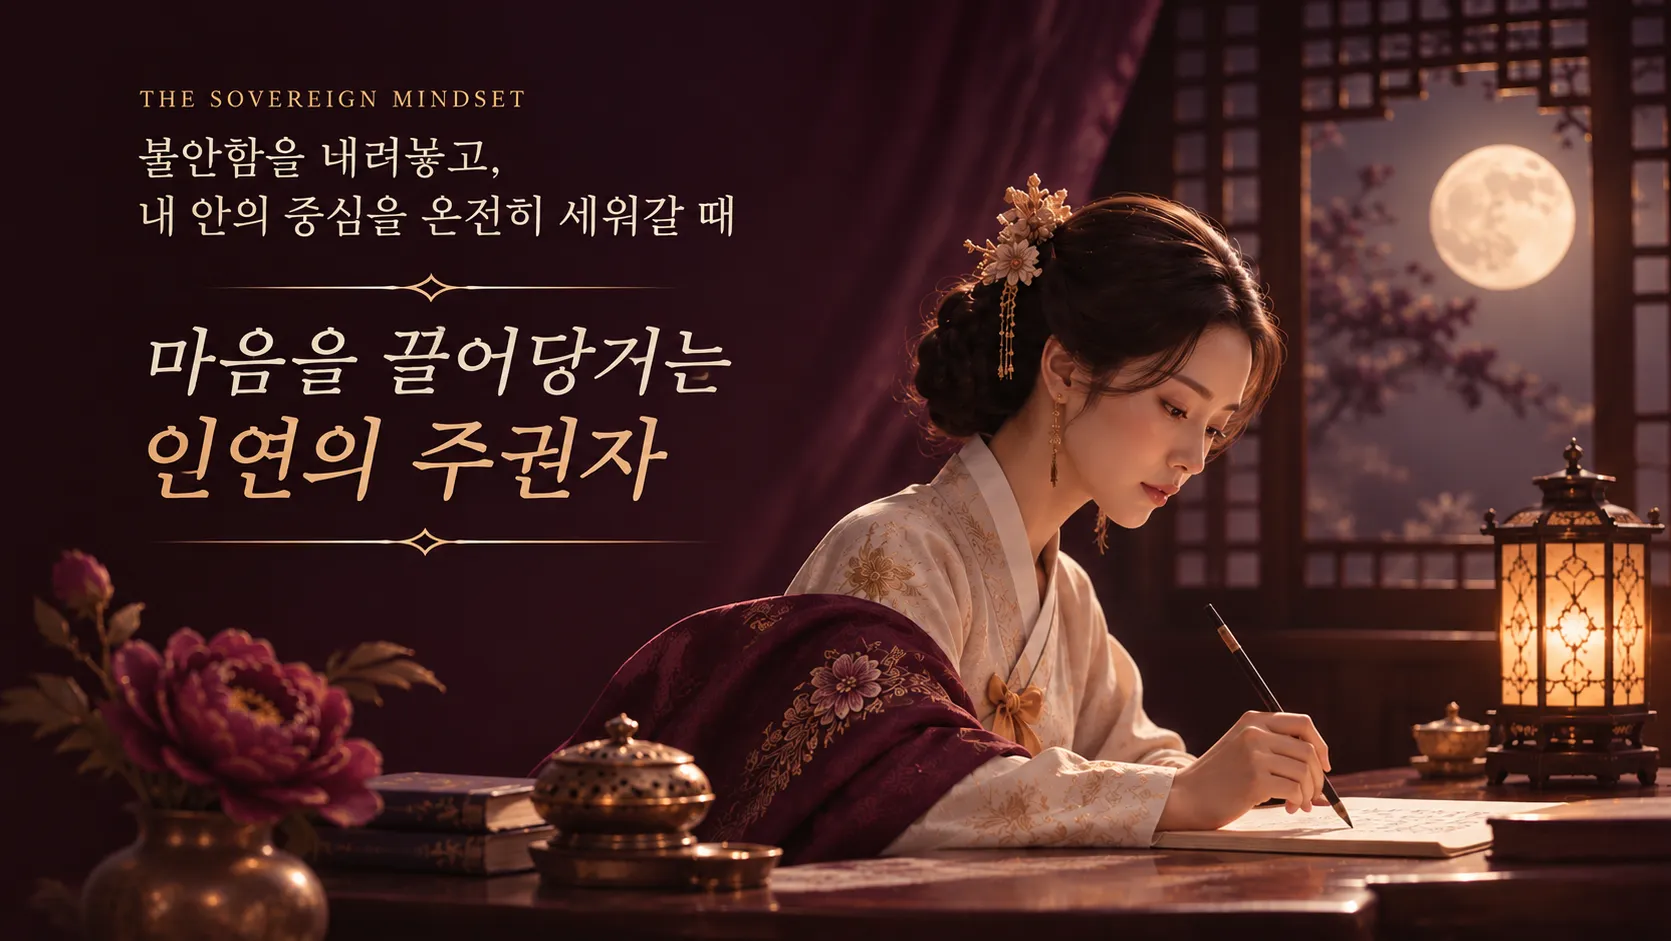
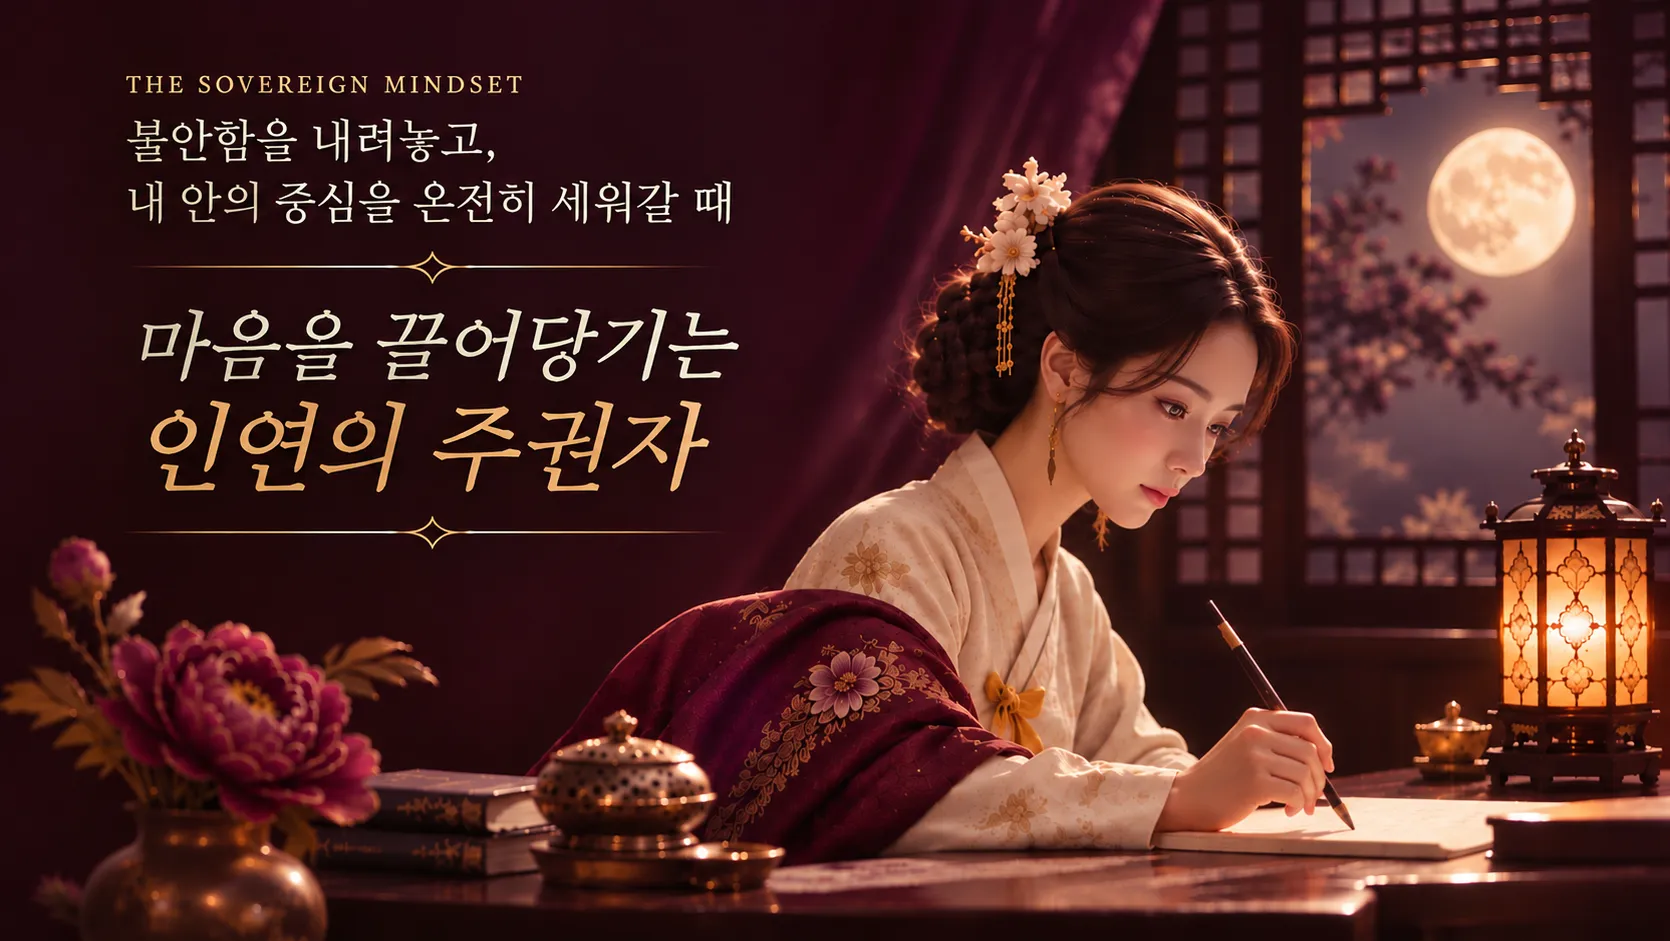
feat(reunion-secret): update sovereign visual asset, expand preview box to full width, and fix position shift heading

diff --git a/app/reports/reunion-secret/page.tsx b/app/reports/reunion-secret/page.tsx
@@ -71,7 +71,7 @@ const productData = {
   // 💡 [신규 영역 1] 관계 역전의 법칙 (16:9 인포그래픽 다이어그램 이미지 경로)
   reunionLawImage: '/image/reunion-secret/return-secret-position-shift.webp',
   // 💡 [신규 영역 2] 인연의 주권자 (16:9 와이드 배너 이미지 경로)
-  sovereignImage: '/image/reunion-secret/return-secret-sovereign-mindset-visual-v2.webp',
+  sovereignImage: '/image/reunion-secret/return-secret-sovereign-mindset-visual-v2.webp?v=20261109_v2',
   // 💡 [책 속에서 만날 내용] 미리보기 이미지 3종
   bookPreviewGuideImage: '/image/reunion-secret/return-secret-book-preview-guide.webp',
   bookPreviewToolsImage: '/image/reunion-secret/return-secret-book-preview-tools.webp',
@@ -2010,18 +2010,18 @@ export default function ReunionSecretPage() {
                     </p>
                   </div>
 
-                  {/* 이미지 3장을 감싸는 단일 반투명 컨테이너 (개별 카드 상자 제거) */}
-                  <div className="w-full max-w-[1240px] mx-auto px-4 sm:px-6">
+                  {/* 이미지 3장을 감싸는 단일 반투명 컨테이너 (기존 가로 풀 사이즈 w-full 적용 & 간격 최적화) */}
+                  <div className="w-full">
                     <div
-                      className="w-full rounded-[24px] p-5 sm:p-6 md:p-8 lg:p-9 transition-all duration-300"
+                      className="w-full rounded-2xl md:rounded-3xl p-4 sm:p-5 md:p-6 transition-all duration-300"
                       style={{
                         background: 'rgba(85, 53, 67, 0.12)',
                         border: '1px solid rgba(194, 150, 145, 0.18)',
                         boxShadow: '0 8px 30px rgba(0, 0, 0, 0.15)'
                       }}
                     >
-                      {/* 가로 3열 이미지 그리드 (데스크톱 가로 1줄, 모바일 1열) */}
-                      <div className="grid grid-cols-1 md:grid-cols-3 gap-5 md:gap-6 items-start w-full">
+                      {/* 가로 3열 이미지 그리드 (상자 여백 축소 & 이미지 크기 확대) */}
+                      <div className="grid grid-cols-1 md:grid-cols-3 gap-4 md:gap-5 items-start w-full">
                         {/* 이미지 1 — 진단·기준·조언 */}
                         <div className="w-full hover:-translate-y-1 transition-transform duration-300">
                           <Image
@@ -2029,7 +2029,7 @@ export default function ReunionSecretPage() {
                             alt="책 속에서 만날 내용 - 진단·기준·조언"
                             width={440}
                             height={661}
-                            className="w-full h-auto object-contain block rounded-[16px] md:rounded-[20px]"
+                            className="w-full h-auto object-contain block rounded-[14px] md:rounded-[18px]"
                             sizes="(max-width: 768px) 100vw, 33vw"
                           />
                         </div>
@@ -2041,7 +2041,7 @@ export default function ReunionSecretPage() {
                             alt="막막한 순간에 펼쳐 볼 여섯 가지 도구 - 6가지 실전 자료"
                             width={440}
                             height={656}
-                            className="w-full h-auto object-contain block rounded-[16px] md:rounded-[20px]"
+                            className="w-full h-auto object-contain block rounded-[14px] md:rounded-[18px]"
                             sizes="(max-width: 768px) 100vw, 33vw"
                           />
                         </div>
@@ -2053,7 +2053,7 @@ export default function ReunionSecretPage() {
                             alt="다시 만나는 일만큼, 나를 잃지 않는 일 - 파동의 진단부터 완성된 나까지 다섯 단계"
                             width={440}
                             height={658}
-                            className="w-full h-auto object-contain block rounded-[16px] md:rounded-[20px]"
+                            className="w-full h-auto object-contain block rounded-[14px] md:rounded-[18px]"
                             sizes="(max-width: 768px) 100vw, 33vw"
                           />
                         </div>
@@ -2765,14 +2765,16 @@ export default function ReunionSecretPage() {
             <section className="mb-28 text-left w-full max-w-[1280px] mx-auto">
               <Reveal>
                 <div>
-                  {/* [신규 영역 1] 관계 역전의 법칙 상단 텍스트 영역 */}
-                  <div className="text-center max-w-3xl mx-auto space-y-4 mb-10 md:mb-14 break-keep">
+                  {/* [신규 영역 1] 관계 역전의 법칙 상단 텍스트 영역 (max-w-4xl 및 한 줄 정렬 최적화) */}
+                  <div className="text-center max-w-4xl mx-auto space-y-4 mb-10 md:mb-14 break-keep">
                     <span className="text-[#D8BB94] font-elegant text-[12pt] font-semibold tracking-[0.2em] uppercase block">
                       POSITION SHIFT
                     </span>
-                    <h2 className="text-2xl md:text-[36px] font-elegant font-bold text-[#FAF7F2] leading-[1.4] break-keep">
-                      &ldquo;매달려도 차가워졌던 이유,<br className="hidden sm:inline" />
-                      어쩌면 <span className="text-[#C2A477]">&lsquo;관계의 프레임&rsquo;</span>을 돌보지 않았기 때문입니다.&rdquo;
+                    <h2 className="text-xl sm:text-2xl md:text-[30px] lg:text-[34px] font-elegant font-bold text-[#FAF7F2] leading-[1.4] md:leading-[1.45] break-keep">
+                      &ldquo;매달려도 차가워졌던 이유,<br />
+                      <span className="whitespace-normal sm:whitespace-nowrap">
+                        어쩌면 <span className="text-[#C2A477]">&lsquo;관계의 프레임&rsquo;</span>을 돌보지 않았기 때문입니다.&rdquo;
+                      </span>
                     </h2>
                     <div className="text-[17px] md:text-[18px] text-[#EDE6DA]/85 leading-[1.8] font-normal break-keep space-y-2">
                       <p>
